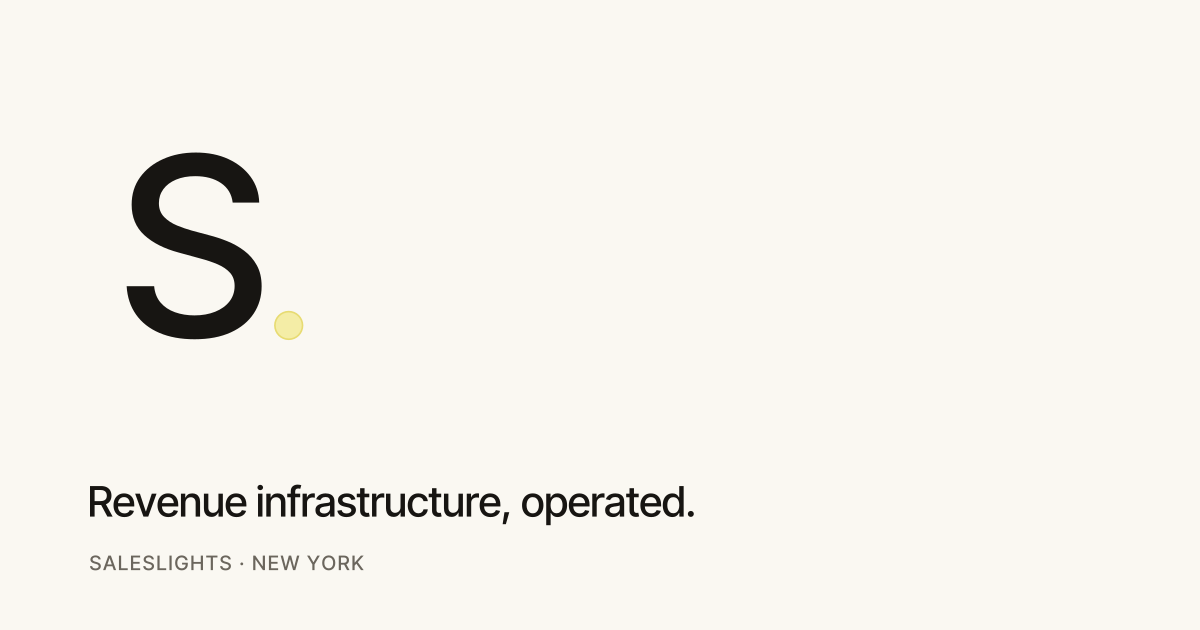
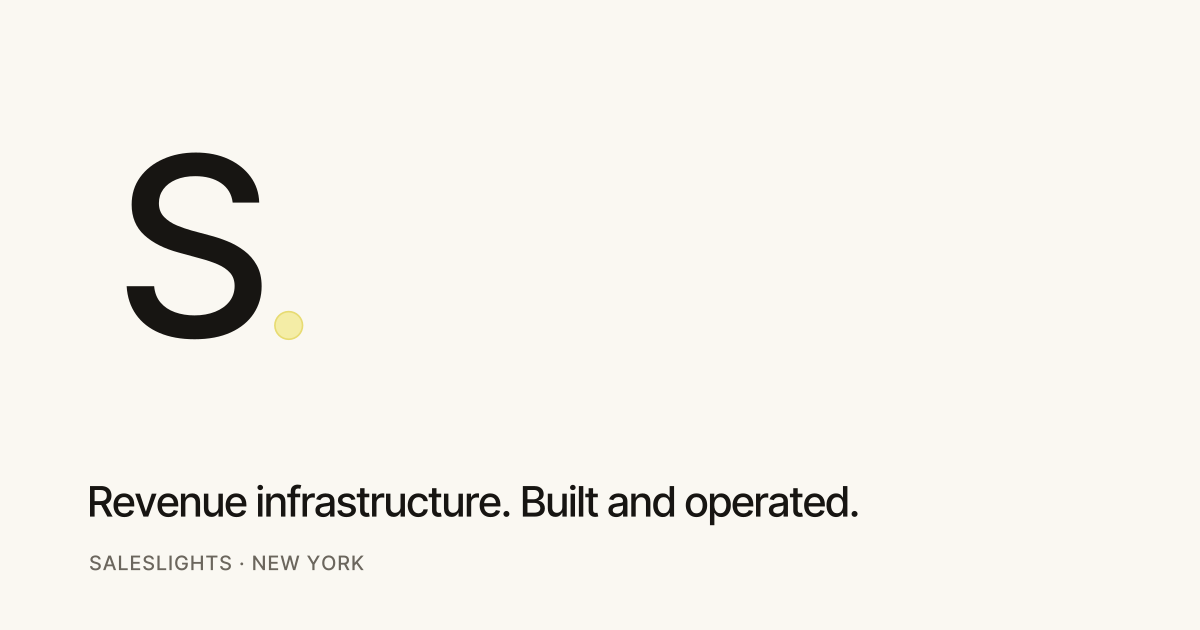
Align copy and pricing with research and truth canon

Changed region(s): [[0.4317, 0.754, 0.7092, 0.8444]]

diff --git a/src/content/site.js b/src/content/site.js
@@ -3,7 +3,7 @@
    - $250 session: live Stripe product (verified 2026-10-23).
    - Retainer range: Nick's instruction, 2026-10-23.
    - Implementation ranges: Saleslights master brand & offer architecture (owner targets).
-   - Per-tier ongoing support: estimates derived from the retainer range, labelled as such. */
+   - Per-tier ongoing support: positions within the owner's retainer range; no sub-bands invented. */
 
 export const SITE_NAME = 'Saleslights';
 
@@ -50,7 +50,7 @@ export const BOOK = {
 };
 
 export const RETAINER = {
-  name: 'Saleslights — GTM Engine & Sales Professional',
+  name: 'Saleslights - GTM Engine & Sales Professional',
   priceRange: '$5,999–$13,999',
   cadence: 'per month',
   priceNote: 'Depends on company size, markets and scope. Larger programs can be more.',
@@ -77,7 +77,7 @@ export const TIERS = [
     who: 'Founder-led teams, first sellers, one core motion.',
     implementation: '$7.5K–$20K',
     implementationNote: 'Focused builds: ICP & data, outbound system or sales training.',
-    support: 'from $5,999 / mo',
+    support: 'from $5,999',
     supportNote: 'Ongoing operation through the GTM Engine retainer.',
   },
   {
@@ -86,8 +86,8 @@ export const TIERS = [
     who: 'Multiple segments or sellers, a CRM that needs to become a system.',
     implementation: '$15K–$35K+',
     implementationNote: 'GTM strategy & implementation, or an AI RevOps & automation build.',
-    support: '~$8K–$11K / mo',
-    supportNote: 'Estimate. Managed engine plus in-market representation.',
+    support: '$5,999–$13,999',
+    supportNote: 'Set by scope within the GTM Engine range.',
   },
   {
     id: 'enterprise',
@@ -95,8 +95,8 @@ export const TIERS = [
     who: 'Business units, geographies, buying committees, governance.',
     implementation: '$50K–$100K+',
     implementationNote: 'Transformation-scale programs with security, procurement and change management.',
-    support: 'from $13,999 / mo',
-    supportNote: 'Scoped individually. Annual managed infrastructure available.',
+    support: 'from $13,999',
+    supportNote: 'Scoped individually; larger programs can be more.',
   },
 ];
 
@@ -118,7 +118,7 @@ export const LOOP = [
   ['Engineer', 'ICPs, segments, triggers and the buying committee.'],
   ['Create authority', 'Founder-led content, proof and premium assets.'],
   ['Activate', 'Phone, email, LinkedIn, field and partner motions.'],
-  ['Learn', 'Report, refine and redeploy into next week.'],
+  ['Learn', 'What buyers say on calls feeds next week’s targeting, messaging and workflows.'],
 ];
 
 export const TRAINING = [

diff --git a/src/app/revenue-infrastructure/page.js b/src/app/revenue-infrastructure/page.js
@@ -42,7 +42,7 @@ export default function RevenueInfrastructure() {
 
       <section className="section">
         <div className="wrap">
-          <p className="eyebrow">What we implement and run</p>
+          <p className="eyebrow">The architecture we implement</p>
           <div className="domains" style={{ marginTop: 32 }}>
             {DOMAINS.map((d, i) => (
               <div className="domain" key={d.key} id={d.key}>
@@ -53,7 +53,7 @@ export default function RevenueInfrastructure() {
               </div>
             ))}
           </div>
-          <p className="footnote">Every engagement is scoped to the domains you need. Most start with three or four and add the rest as the engine earns its keep.</p>
+          <p className="footnote">Every engagement is scoped to the domains you need. Start with the three or four that matter most; the written scope says exactly what each one delivers.</p>
         </div>
       </section>
 
@@ -68,11 +68,11 @@ export default function RevenueInfrastructure() {
                 <p className="who">{t.who}</p>
                 <div className="divider" />
                 <div><p className="label">Implementation</p><p className="amt">{t.implementation}</p><p className="note">{t.implementationNote}</p></div>
-                <div><p className="label">Ongoing support</p><p className="amt">{t.support}</p><p className="note">{t.supportNote}</p></div>
+                <div><p className="label">Ongoing support · per month</p><p className="amt">{t.support}</p><p className="note">{t.supportNote}</p></div>
               </div>
             ))}
           </div>
-          <p className="footnote">Estimates in U.S. dollars. A written scope and fixed price follow discovery. Implementations are finite projects with deliverables and a finish line; ongoing support is optional and is delivered through the <Link href="/gtm-engine/">GTM Engine &amp; Sales Professional</Link> program.</p>
+          <p className="footnote">Estimates in U.S. dollars. A written scope and fixed price follow discovery. Implementations are finite projects with deliverables and a finish line, and you keep everything built. Ongoing operation is optional: the <Link href="/gtm-engine/">GTM Engine &amp; Sales Professional</Link> program, or a lighter support scope agreed separately.</p>
         </div>
       </section>
 

diff --git a/src/app/page.js b/src/app/page.js
@@ -16,7 +16,7 @@ export default function Home() {
         <div className="wrap hero-grid">
           <div>
             <p className="eyebrow">Saleslights · New York</p>
-            <h1 style={{ marginTop: 28 }}>Revenue infrastructure, operated<span className="lamp-stop" aria-hidden="true"></span><span className="sr-only">.</span></h1>
+            <h1 style={{ marginTop: 28 }}><span className="line">Revenue infrastructure.</span>{' '}<span className="line">Built and operated<span className="lamp-stop" aria-hidden="true"></span><span className="sr-only">.</span></span></h1>
           </div>
           <div>
             <p className="lede">We build the system that finds, reaches and wins your buyers — then run it with you, with a real sales professional in market.</p>
@@ -57,7 +57,7 @@ export default function Home() {
         <div className="wrap split">
           <div className="copy">
             <p className="eyebrow">Our core offer</p>
-            <h2>{RETAINER.name.replace('Saleslights — ', '')}</h2>
+            <h2>{RETAINER.name.replace('Saleslights - ', '')}</h2>
             <p className="lede">{RETAINER.promise}</p>
             <p className="price" style={{ fontSize: 'clamp(40px,5vw,72px)' }}>{RETAINER.priceRange}<small>{RETAINER.cadence}</small></p>
             <p className="muted">{RETAINER.priceNote}</p>
@@ -75,7 +75,7 @@ export default function Home() {
           <div className="copy">
             <p className="eyebrow">Founder-led</p>
             <h2>Senior judgment on every account.</h2>
-            <p className="lede">Nick Krause has carried quota, led sales engineering and founded Sherpa, a compliance company whose assets AdRem Systems acquired. He is in the work, not above it.</p>
+            <p className="lede">Nick Krause has carried quota, worked in senior sales engineering and founded Sherpa, a compliance company whose assets AdRem Systems acquired. He is in the work, not above it.</p>
             <p><Link className="text-link" href="/about/">About Nick and the team</Link></p>
           </div>
           <div>

diff --git a/src/content/seo.js b/src/content/seo.js
@@ -1,7 +1,7 @@
 /* Per-route SEO contract. scripts/verify-routes.mjs asserts rendered HTML
    against this table: status, one H1, title, description and canonical. */
 export const PAGES = {
-  '/': { title: 'Saleslights — Revenue infrastructure, operated', h1: 'Revenue infrastructure, operated.' },
+  '/': { title: 'Saleslights — Revenue infrastructure, built and operated', h1: 'Revenue infrastructure. Built and operated.' },
   '/gtm-engine/': {
     title: 'GTM Engine & Sales Professional — managed GTM with a rep in market',
     description: 'Saleslights runs your full GTM engine and puts a dedicated U.S.-based sales professional in market alongside founder Nick Krause. $5,999–$13,999 per month by company size.',
@@ -9,7 +9,7 @@ export const PAGES = {
   },
   '/revenue-infrastructure/': {
     title: 'Revenue Infrastructure — the Master Revenue Engine, implemented',
-    description: 'The ten domains Saleslights implements and operates — signals, prospecting, campaigns, search, CX, paid, analytics, content, field and finance — with SMB, midmarket and enterprise pricing.',
+    description: 'The Master Revenue Engine architecture Saleslights implements — signals, prospecting, campaigns, search, CX, paid, analytics, content, field and finance — with SMB, midmarket and enterprise pricing.',
     h1: 'Revenue infrastructure',
   },
   '/training/': {

diff --git a/src/app/gtm-engine/page.js b/src/app/gtm-engine/page.js
@@ -9,7 +9,7 @@ import { absolute } from '../../lib/env';
 export const metadata = pageMeta('/gtm-engine/');
 
 const FAQ = [
-  ['How much does the GTM Engine & Sales Professional cost?', 'Between $5,999 and $13,999 per month, depending on company size, markets and scope. Larger programs can cost more. Pricing is agreed before any work starts.'],
+  ['How much does Saleslights - GTM Engine & Sales Professional cost?', 'Between $5,999 and $13,999 per month, depending on company size, markets and scope. Larger programs can cost more. Pricing is agreed before any work starts.'],
   ['Is the sales professional a real person?', 'Yes. Each program includes a dedicated, U.S.-based sales professional who makes calls, works LinkedIn, attends events and books meetings, alongside Nick as sales engineering lead. AI does the research and orchestration; people sell.'],
   ['Do you guarantee meetings or revenue?', 'No. We commit to the work, the cadence and weekly reporting, and to tuning the system every week. Anyone guaranteeing revenue from outbound is pricing in a promise they cannot control.'],
   ['Who owns the data and systems?', 'You do. We work inside your CRM and tools where possible, and the platforms, data, prospect intelligence and deliverables built for you remain yours.'],

diff --git a/src/app/globals.css b/src/app/globals.css
@@ -93,9 +93,16 @@ ul { margin: 0; padding: 0; list-style: none; }
 .hero { padding: clamp(72px, 12vw, 170px) 0 clamp(60px, 9vw, 120px); position: relative; overflow: hidden; }
 .hero-grid { display: grid; gap: 56px; }
 .hero h1 { max-width: 11ch; }
+.hero h1 .line { display: inline; }
 .hero h1 .lamp-stop { display: inline-block; width: 0.15em; height: 0.15em; margin-left: 0.04em; border-radius: 50%; background: var(--lamp); box-shadow: inset 0 0 0 1.5px var(--lamp-deep), 0 0 0.35em 0.06em rgba(244, 237, 166, .7); vertical-align: baseline; }
 .hero .lede { margin-top: 36px; }
-@media (min-width: 980px) { .hero-grid { grid-template-columns: 1.35fr 1fr; align-items: end; } }
+@media (min-width: 980px) {
+  .hero-grid { grid-template-columns: 1fr 1fr; align-items: end; row-gap: 8px; }
+  .hero-grid > div:first-child { grid-column: 1 / -1; }
+  .hero-grid > div:last-child { grid-column: 2; }
+  .hero h1 { max-width: none; font-size: clamp(64px, 7.6vw, 112px); }
+  .hero h1 .line { display: block; }
+}
 
 /* Ladder */
 .ladder { display: grid; border-top: 1px solid var(--line); }

diff --git a/src/app/layout.js b/src/app/layout.js
@@ -10,7 +10,7 @@ const DESCRIPTION =
 
 export const metadata = {
   metadataBase: new URL(CANONICAL_ORIGIN),
-  title: { default: 'Saleslights — Revenue infrastructure, operated', template: '%s | Saleslights' },
+  title: { default: 'Saleslights — Revenue infrastructure, built and operated', template: '%s | Saleslights' },
   description: DESCRIPTION,
   applicationName: 'Saleslights',
   authors: [{ name: 'Nick Krause', url: `${CANONICAL_ORIGIN}/about/` }],
@@ -26,7 +26,7 @@ export const metadata = {
     type: 'website',
     siteName: 'Saleslights',
     url: CANONICAL_ORIGIN,
-    title: 'Saleslights — Revenue infrastructure, operated',
+    title: 'Saleslights — Revenue infrastructure, built and operated',
     description: DESCRIPTION,
     locale: 'en_US',
     images: [{ url: '/brand/og-default-1200x630.png', width: 1200, height: 630, alt: 'Saleslights' }],

diff --git a/src/components/Footer.js b/src/components/Footer.js
@@ -9,7 +9,7 @@ export default function Footer() {
       <div className="wrap footer-grid">
         <div className="footer-brand">
           <Mark size={44} />
-          <p className="footer-line">Revenue infrastructure, operated.</p>
+          <p className="footer-line">Revenue infrastructure. Built and operated.</p>
           <p className="muted small">New York · Delaware</p>
         </div>
         <div>
